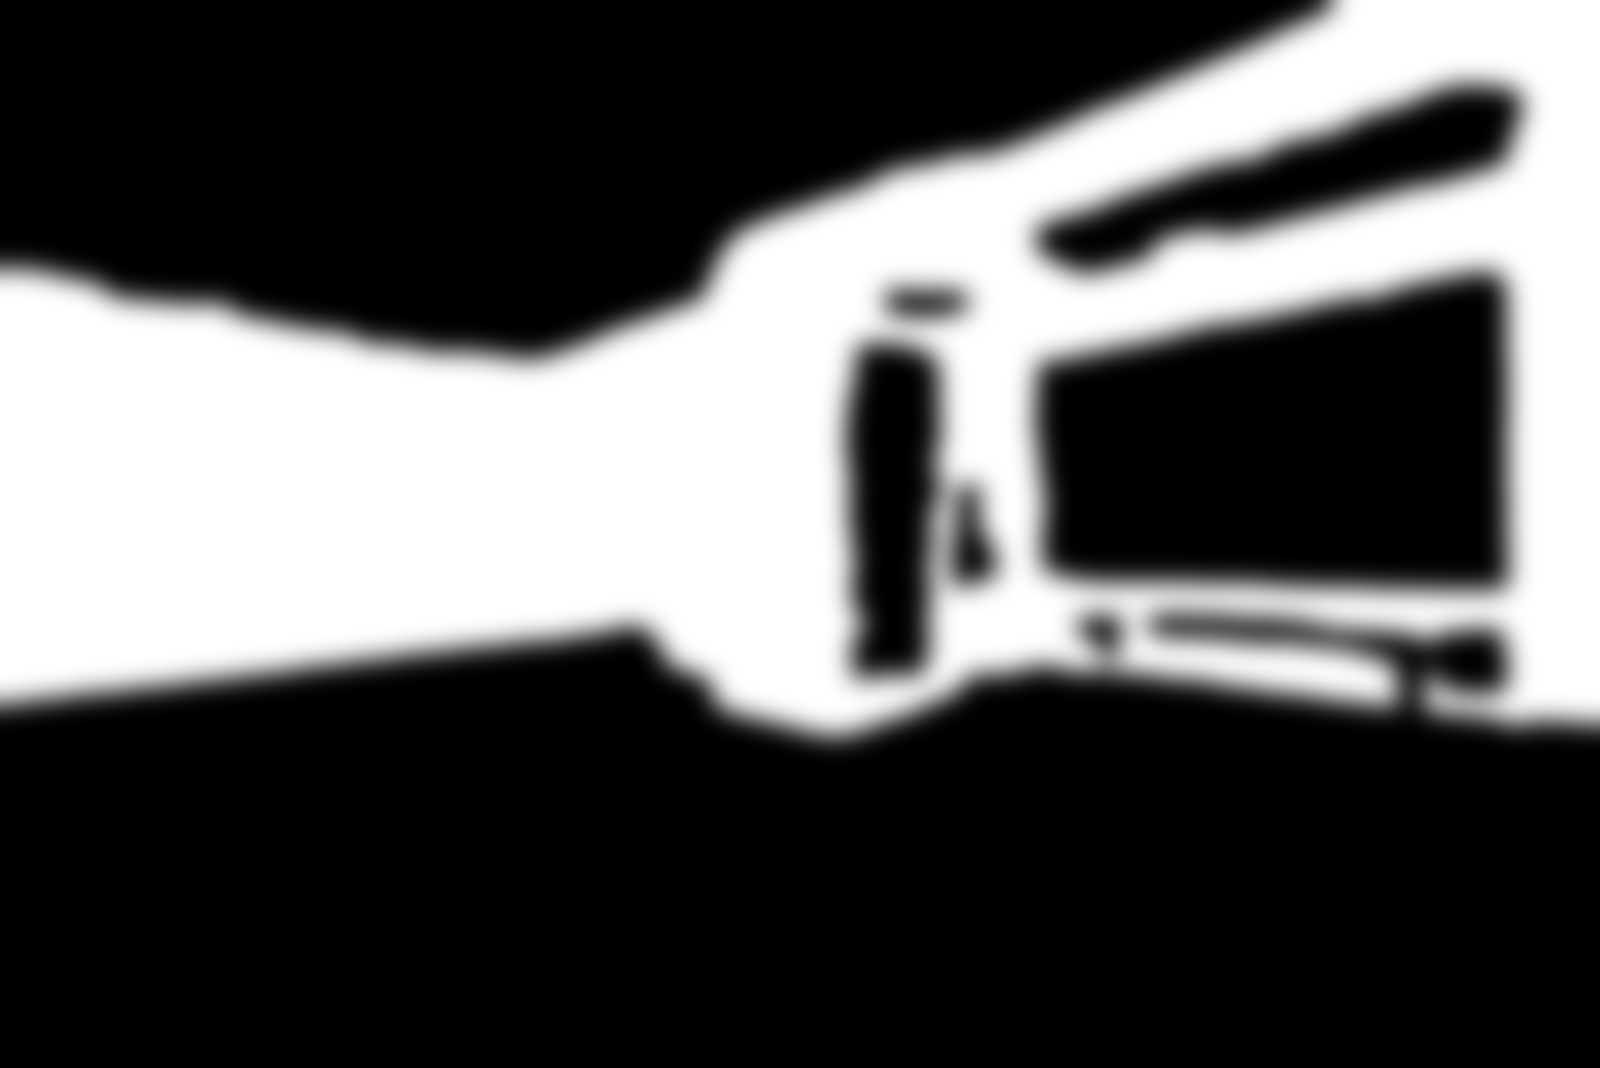
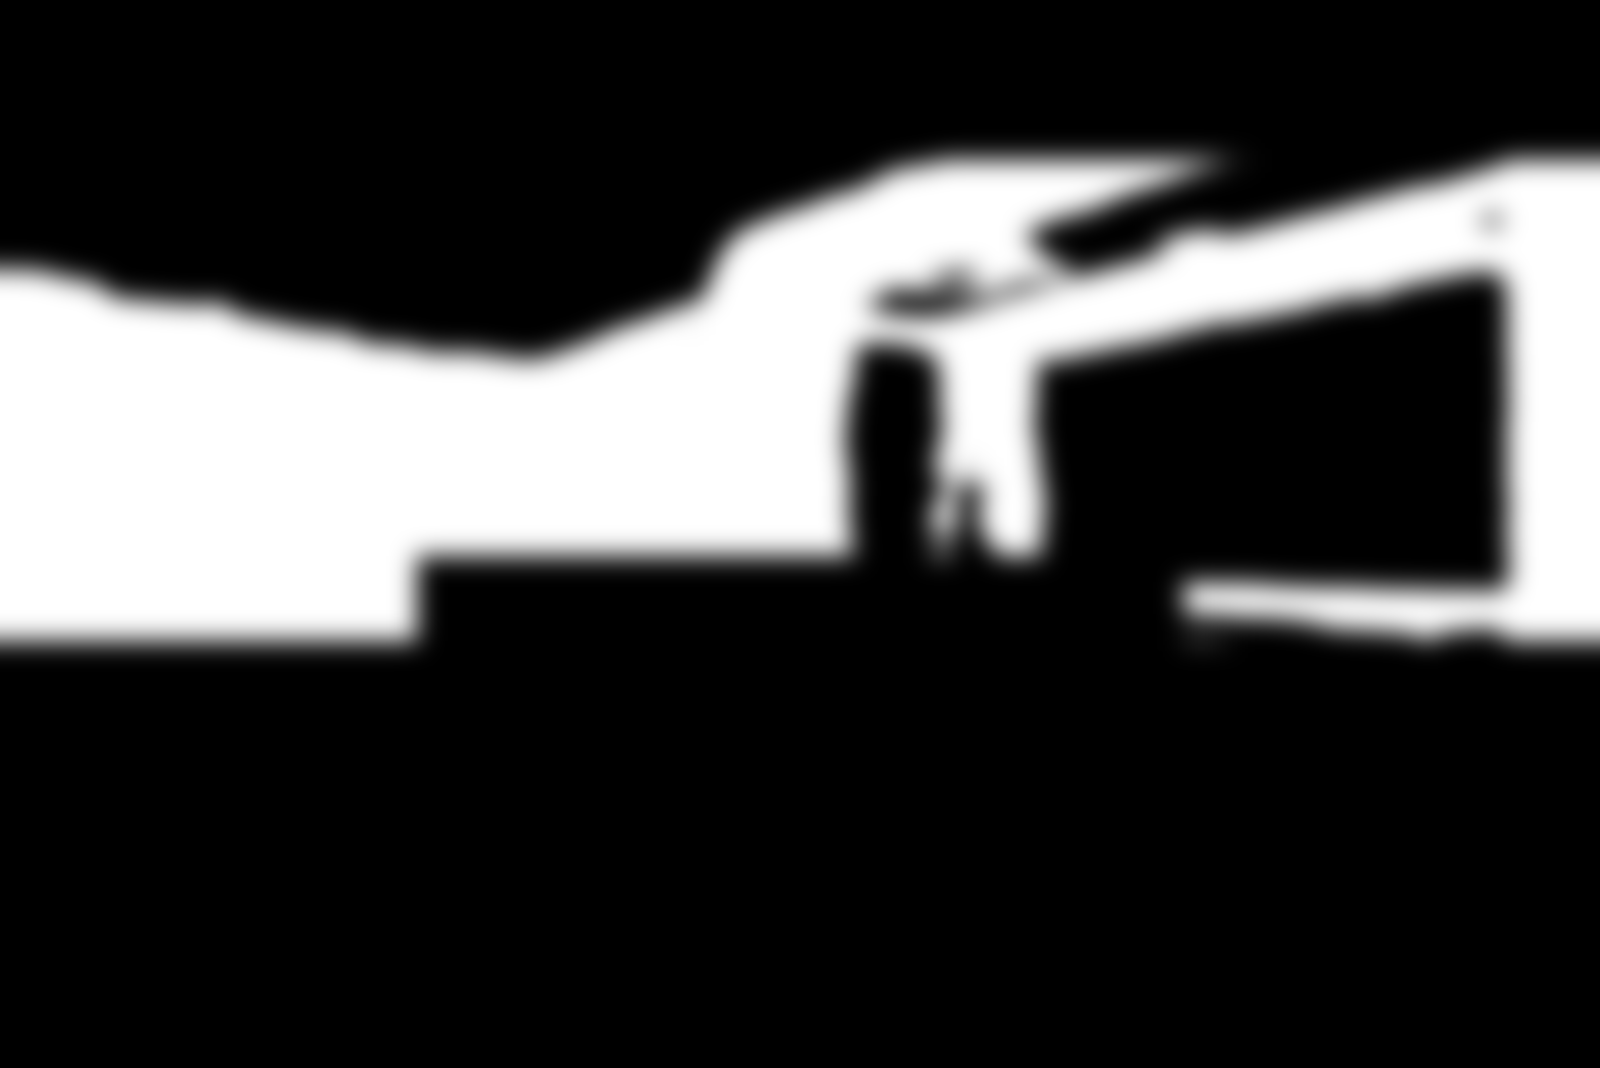
Fix Nairobi Living Room: clip AI mask to polygon wall regions
Segformer over-classified ceiling, floor and dark panels as wall.
Intersect AI mask with known polygon boundaries to constrain paint
to the actual left/right/back wall areas only. Regenerated 20 images.

diff --git a/scripts/regen_room.ts b/scripts/regen_room.ts
@@ -1,0 +1,31 @@
+import { neon } from "@neondatabase/serverless";
+import fs from "fs";
+import path from "path";
+import { recolourImage } from "../api/recolour.js";
+
+const ROOM_ID = process.argv[2];
+if (!ROOM_ID) { console.error("Usage: regen_room.ts <room-id>"); process.exit(1); }
+
+const sql = neon(process.env.DATABASE_URL!);
+
+const [room] = await sql`SELECT id, name, photo_url FROM rooms WHERE id = ${ROOM_ID}`;
+if (!room) { console.error("Room not found:", ROOM_ID); process.exit(1); }
+
+const colours = await sql`SELECT id, name, hex FROM colours`;
+console.log(`Regenerating ${colours.length} images for: ${room.name}`);
+
+const maskPath = path.join(process.cwd(), "api", "masks", `${ROOM_ID}_mask.png`);
+const maskBuffer = fs.readFileSync(maskPath);
+
+const imgPath = path.join(process.cwd(), "scripts", "scratch", "original_rooms", `${ROOM_ID}.jpg`);
+const originalImageBuffer = fs.readFileSync(imgPath);
+
+const pregenDir = path.join(process.cwd(), "public", "pregenerated");
+let count = 0;
+for (const colour of colours) {
+  const out = path.join(pregenDir, `${ROOM_ID}_${colour.id}.jpg`);
+  const buf = recolourImage(originalImageBuffer, { pngBuffer: maskBuffer }, colour.hex, "Satin");
+  fs.writeFileSync(out, buf);
+  count++;
+}
+console.log(`Done: ${count}/${colours.length} images regenerated.`);

diff --git a/scripts/fix_living_room_mask.py b/scripts/fix_living_room_mask.py
@@ -1,0 +1,41 @@
+"""
+Clips the Nairobi Living Room AI mask using the known polygon boundaries,
+preventing ceiling, floor, and dark panels from being painted.
+"""
+from PIL import Image, ImageDraw, ImageFilter
+import numpy as np
+
+ROOM_ID = "b91aeb30-b245-4cf0-affc-5a04c8b0c2fd"
+RAW_MASK = f"api/masks/{ROOM_ID}_mask_raw.png"
+OUT_MASK  = f"api/masks/{ROOM_ID}_mask.png"
+
+# Known safe wall polygons for Nairobi Living Room (from DB wall_mask)
+# These are the 3 actual wall regions: left strip, right strip, back wall upper
+POLYGONS = [
+    [(0,    0.15), (0.26, 0.15), (0.26, 0.60), (0,    0.60)],  # left wall
+    [(0.74, 0.15), (1,    0.15), (1,    0.60), (0.74, 0.60)],  # right wall
+    [(0.26, 0.15), (0.74, 0.15), (0.74, 0.52), (0.26, 0.52)],  # back wall centre
+]
+
+raw = Image.open(RAW_MASK).convert("L")
+w, h = raw.size
+print(f"Mask size: {w}x{h}")
+
+# Build polygon clip mask
+clip = Image.new("L", (w, h), 0)
+draw = ImageDraw.Draw(clip)
+for poly in POLYGONS:
+    px_poly = [(int(x * w), int(y * h)) for x, y in poly]
+    draw.polygon(px_poly, fill=255)
+
+# Intersect: only keep AI wall pixels that fall inside the polygon regions
+ai_np   = np.array(raw)
+clip_np = np.array(clip)
+combined = np.minimum(ai_np, clip_np)  # AND operation
+
+result = Image.fromarray(combined.astype(np.uint8), mode="L")
+
+# Re-apply feathering
+feathered = result.filter(ImageFilter.GaussianBlur(radius=12))
+feathered.save(OUT_MASK)
+print(f"Saved clipped mask -> {OUT_MASK}")
